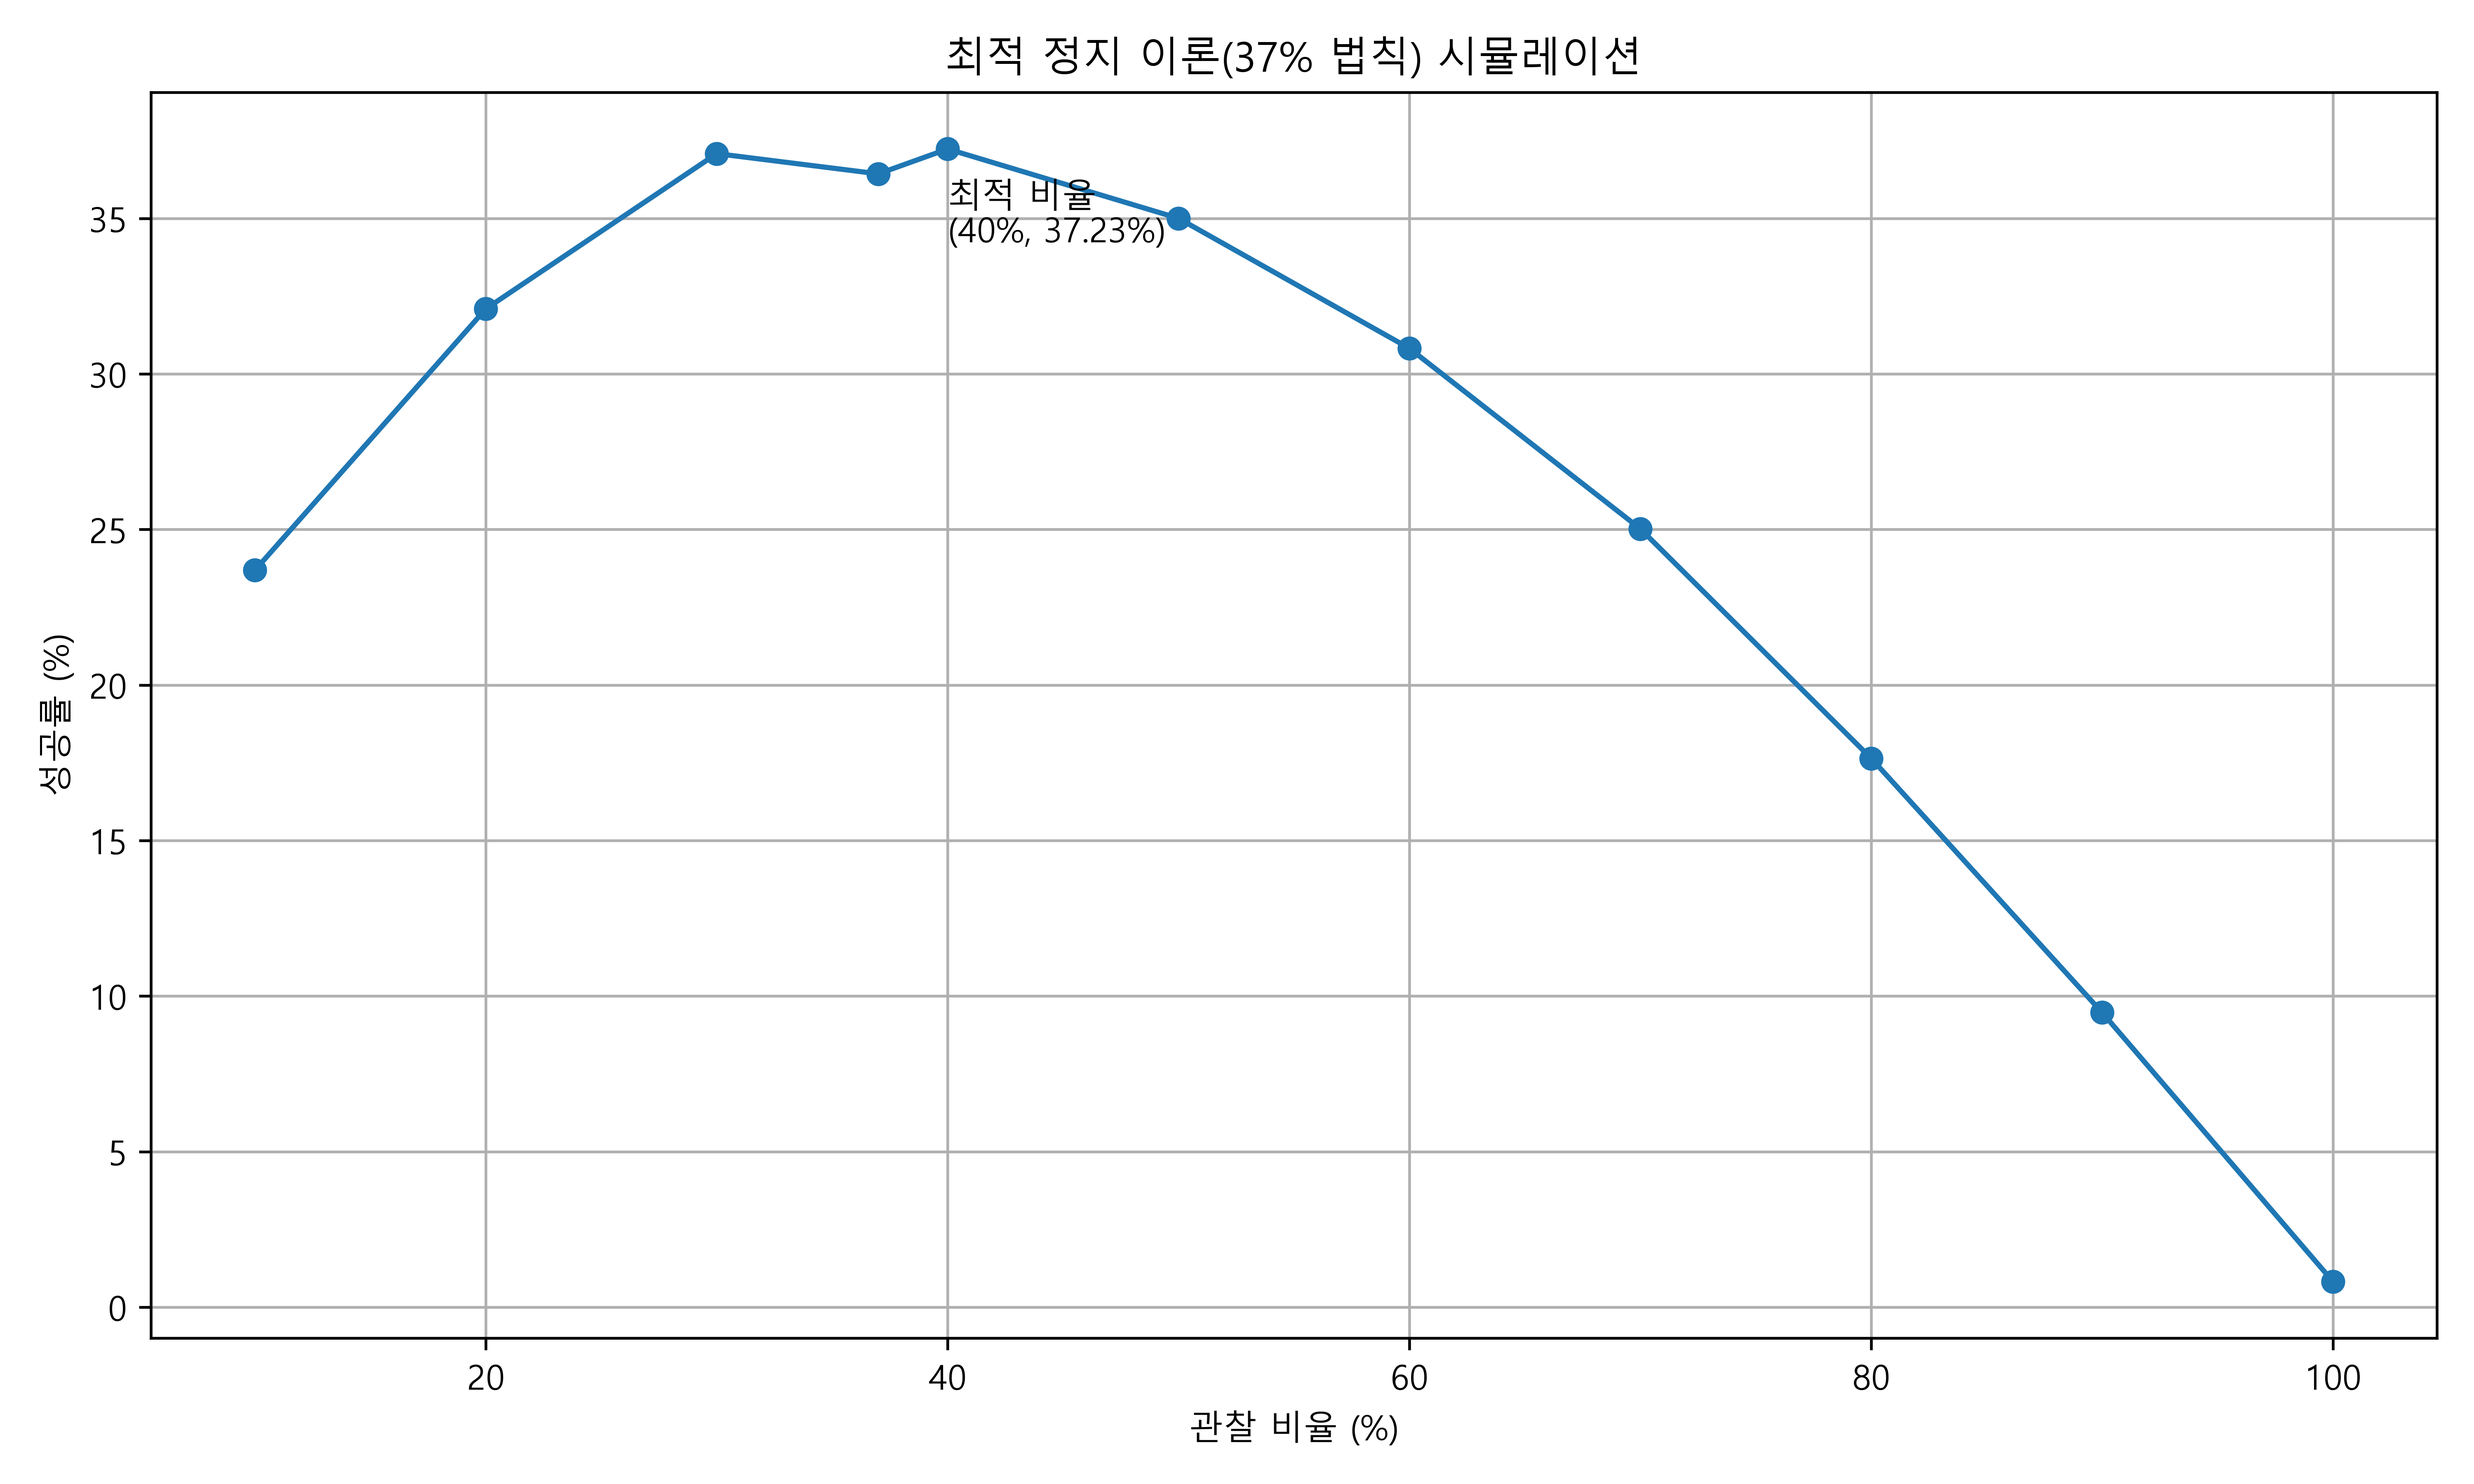
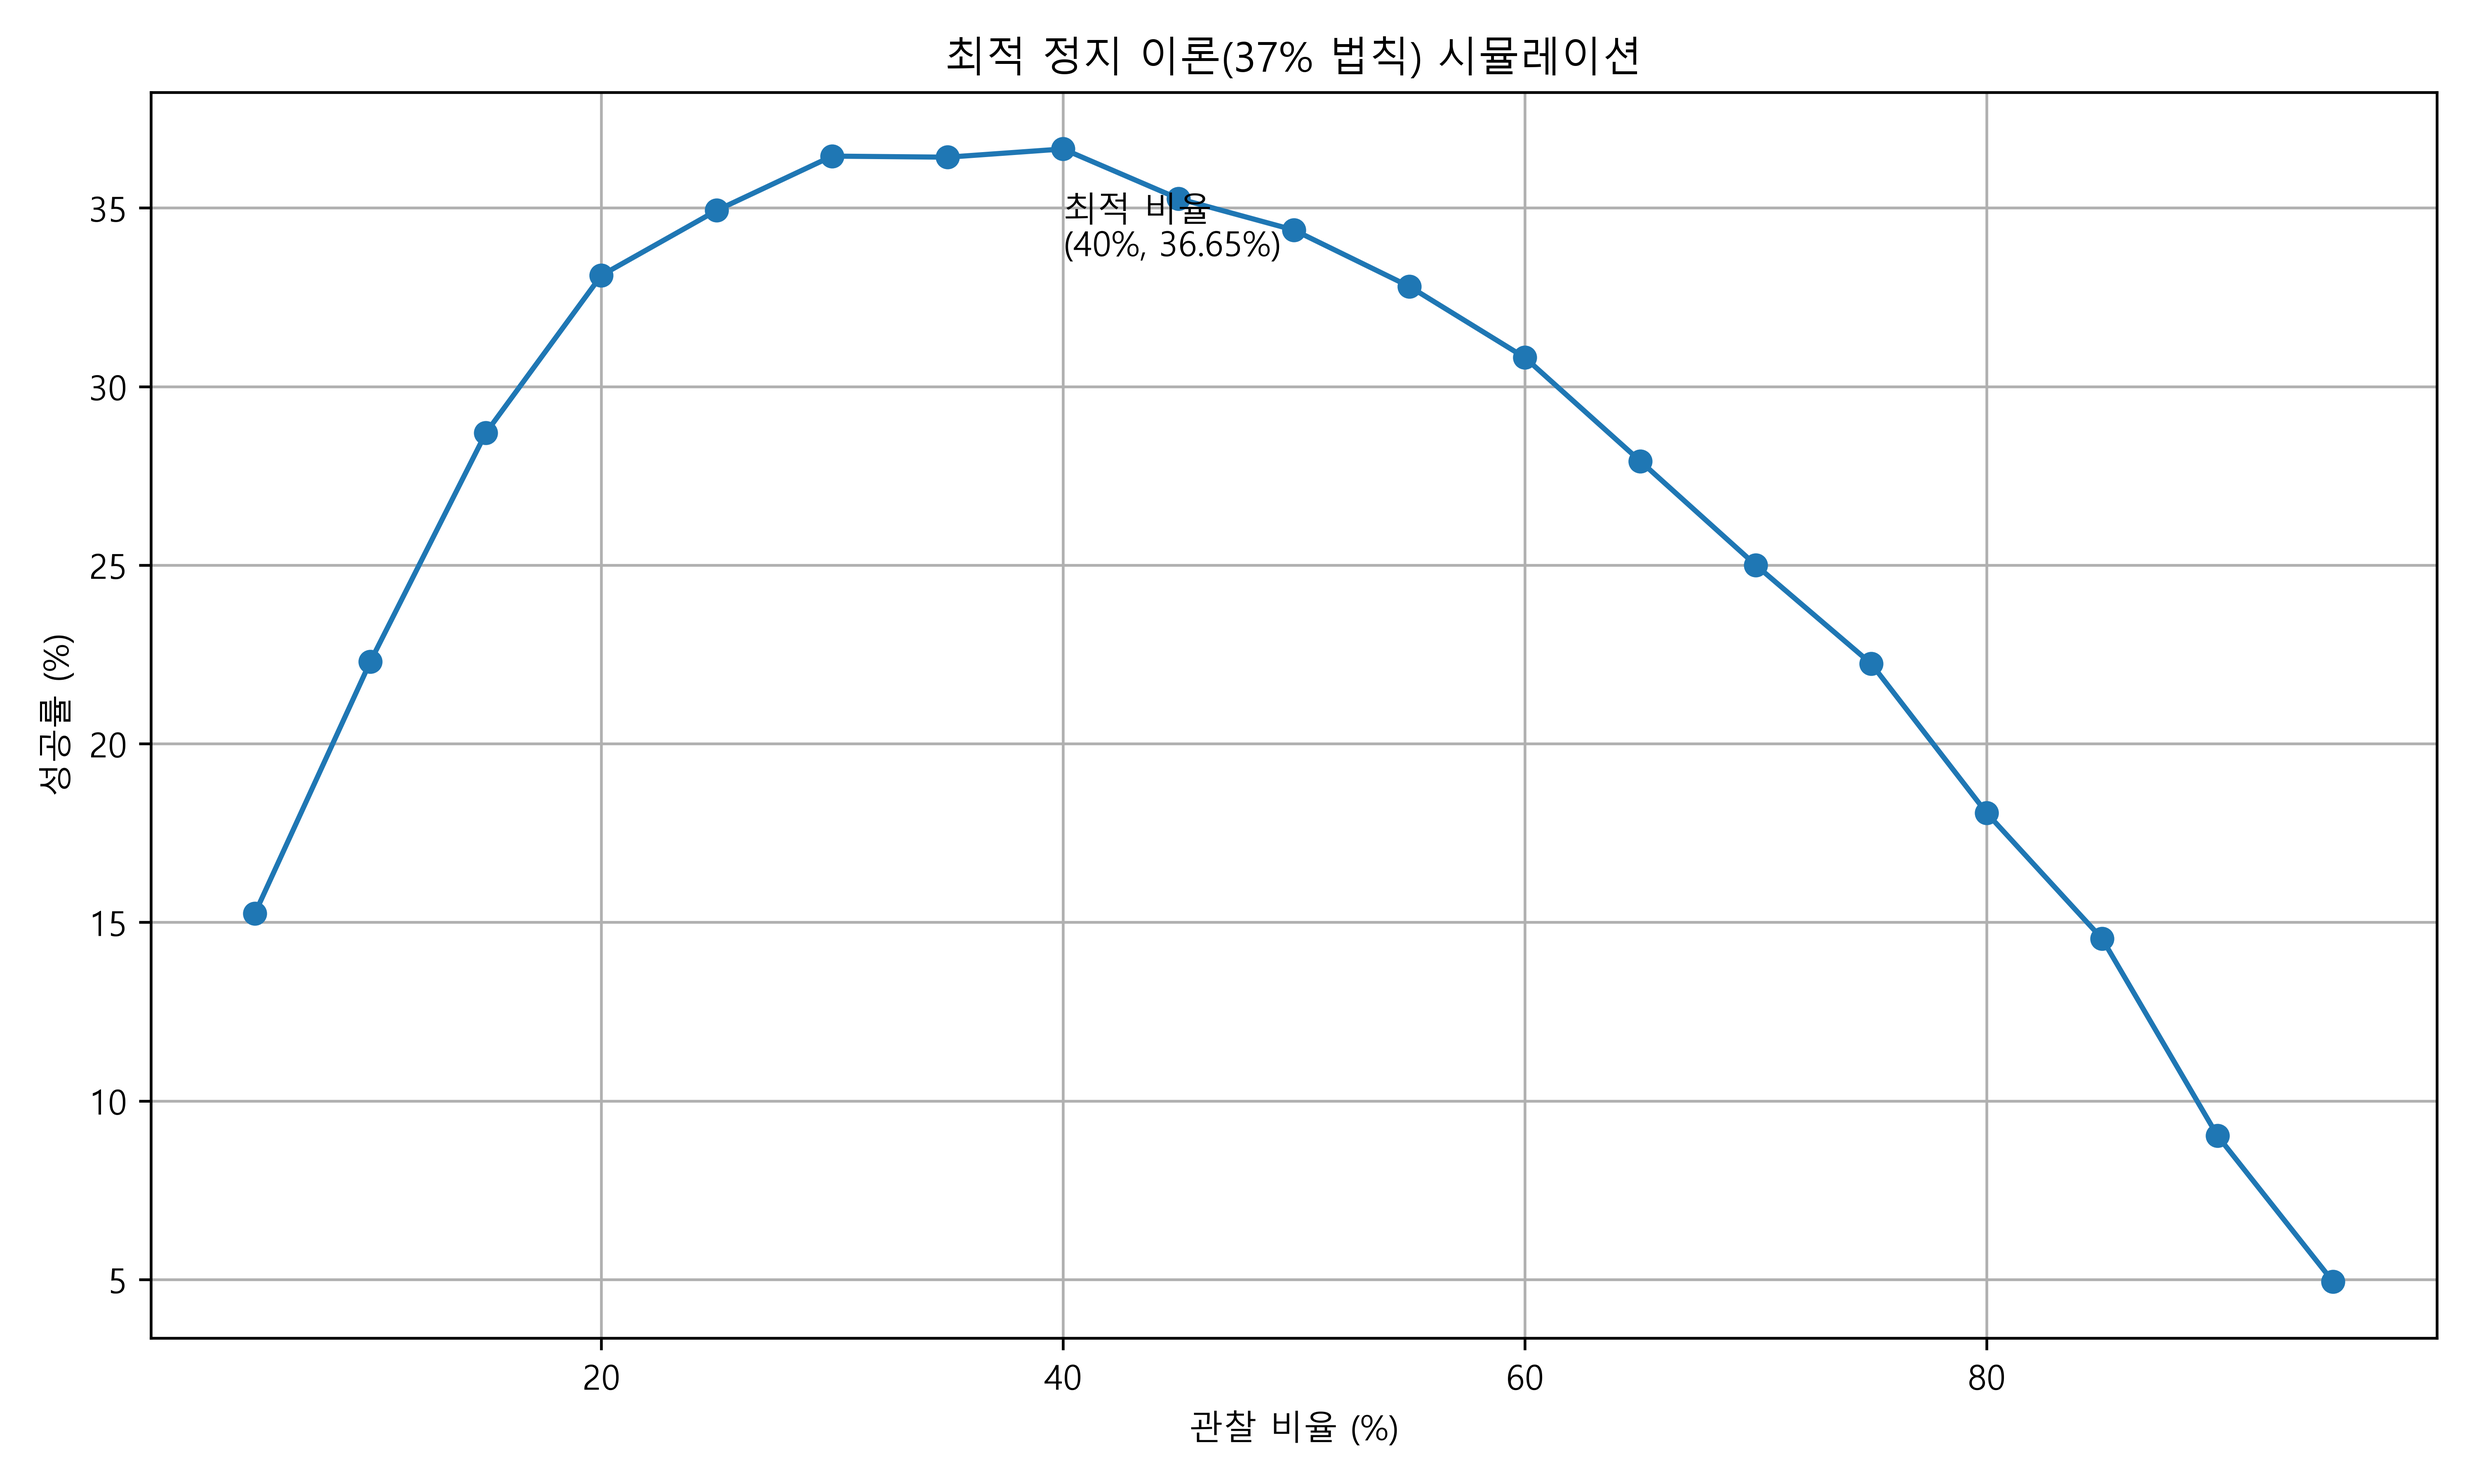
5percent

diff --git a/main.py b/main.py
@@ -75,19 +75,7 @@ def simulate(
 # 실험 설정
 # ======================
 
-RATIOS = [
-    0.10,
-    0.20,
-    0.30,
-    0.37,
-    0.40,
-    0.50,
-    0.60,
-    0.70,
-    0.80,
-    0.90,
-    1
-]
+RATIOS = [i / 100 for i in range(5, 100, 5)]
 
 TRIALS = 10000
 
